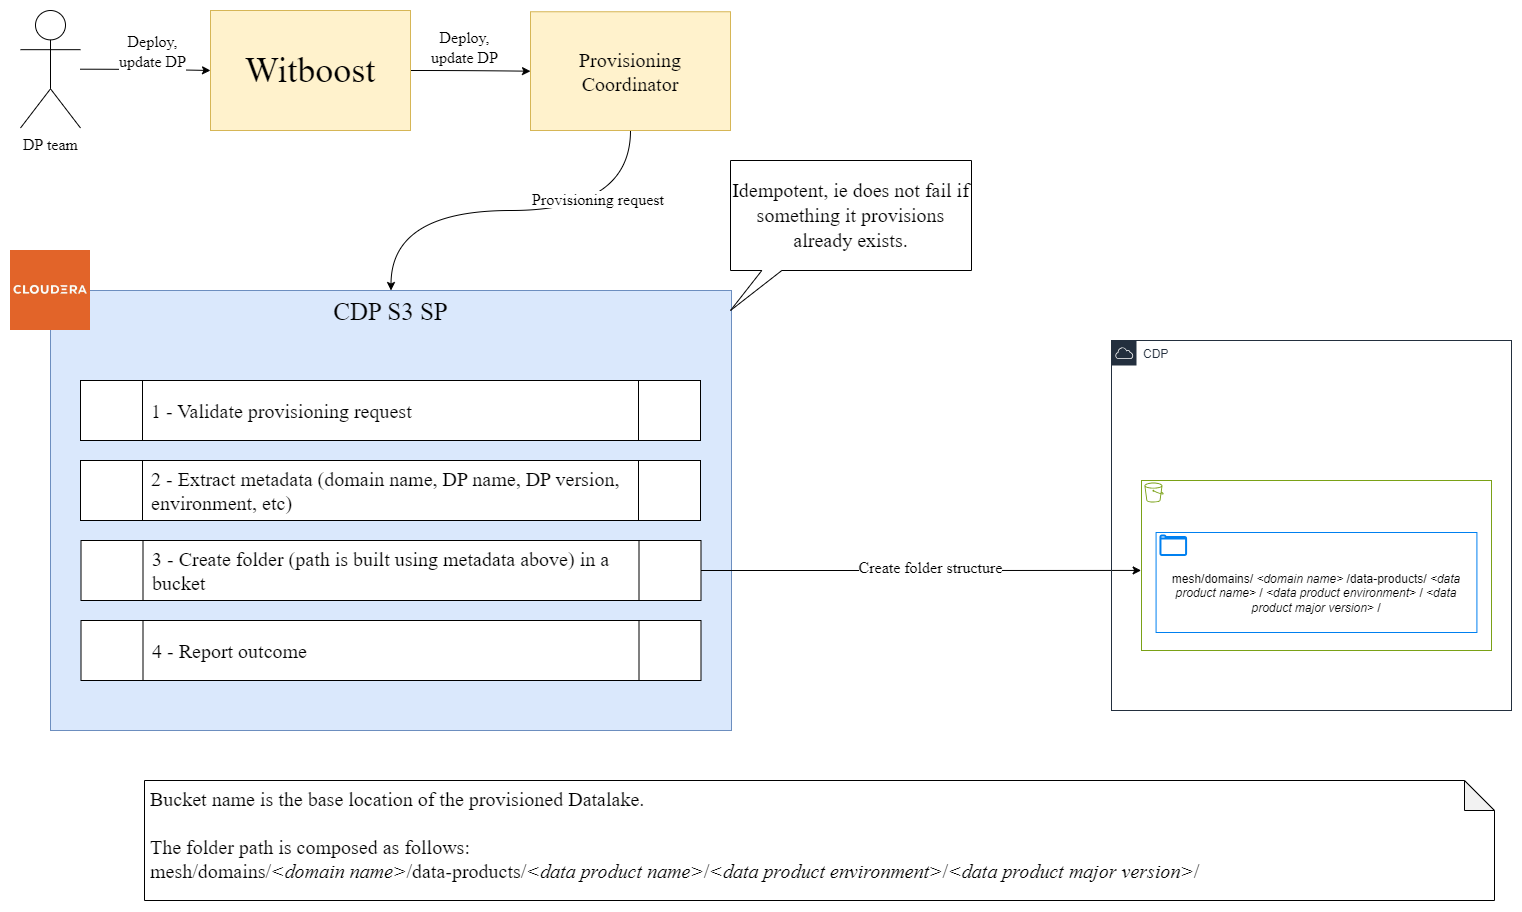
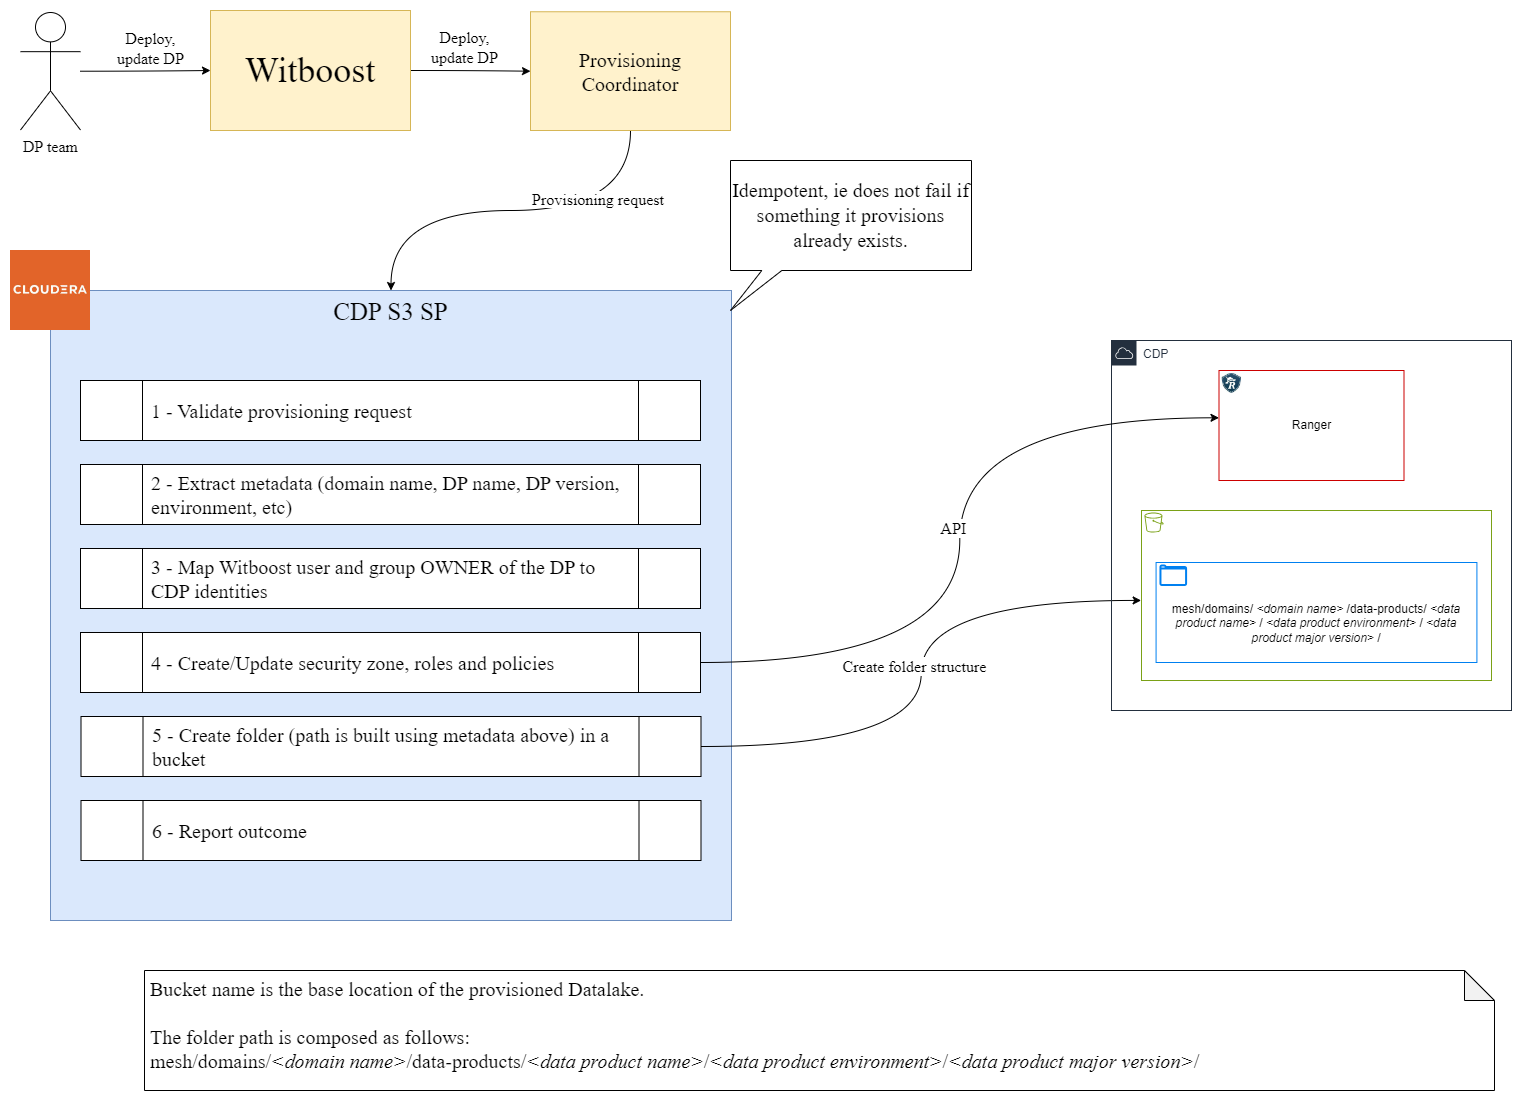
[WIT-805] Update ACL HLD and LLD for CDP S3 SP
# New features and improvements

Defined HLD for Update ACL

# Related issue

Closes WIT-805

# Definition of Done for Feature/Hotfixes

## All Developments

- [x] Feature was implemented as per the requirements
- [x] If some code parts are complex they must be commented with code documentation
- [x] CI/CD is successful
- [x] Code coverage is not reduced, any new code is covered
- [x] E2E/integration tests are successful (whether run locally or in CI/CD)
- [x] If dependencies were changed, be sure that they will not impact the project, that their license is compatible, and that they introduce no vulnerabilities
- [x] Documentation have been updated
  * Documentation has been updated with explanation of the new feature if it is user-facing (eg component now has additional setting) or it impacts him in some other way (eg optional field that becomes mandatory)
  * If it is a breaking change, we have documented it as such in the MR description in a "Breaking Changes" section
- [x] Check that you are not affecting any existing environments with these changes, especially the Sandbox/Playground. This means that merging it to master and deploying it to these environments will not break them and **no manual operations that are not reported in the documentation will be needed**
[…]

diff --git a/docs/HLD.md b/docs/HLD.md
@@ -30,14 +30,31 @@ The folder path and name must be composed in a way to not interfere with other D
 
 Appropriate permissions needs to be granted to the created folder.
 
+CDP Public Cloud defaults to using cloud storage which might be challenging while managing data access across teams and individual users. The Ranger Authorization Service (RAZ) resolves this challenge by enabling Amazon S3 users to use fine-grained access policies and audit capabilities available in Apache Ranger similar to those used with HDFS files in an on-premises or IaaS deployment.
+
+> Currently, there is no automated way to enable RAZ in an existing CDP environment that does not have RAZ enabled.
+
 ## Provisioning
 
-Provisioning is pretty straightforward because as stated above the main operation done in this phase is the creation of a folder structure inside a S3 Bucket.
+Four main operations are executed on provisioning phase:
+1. Request validation
+2. Map of the Witboost identities to CDP identities
+3. Security zone, roles (_OWNER_ and _USER_) and policies creation in Apache Ranger
+4. Creation of the folder structure in the S3 bucket
 
 ![Provisioning](img/hld-Provisioning.png)
 
 ## Unprovisioning
 
-Unprovisioning consists of removing the existing (if any) ACLs for the provisioned folder.
+Unprovisioning consists of removing the existing _policies_ and _USER role_ in Apache Ranger.
 
 ![Unprovisioning](img/hld-Unprovisioning.png)
+
+## Update Acl
+
+Three main operations are executed on this phase:
+1. Request validation
+2. Map of the Witboost identities requesting access to CDP identities
+3. Add mapped users and groups to the _USER role_ in Apache Ranger (removing user and groups no more allowed to have access)
+
+![UpdateACL](img/hld-UpdateACL.png)
